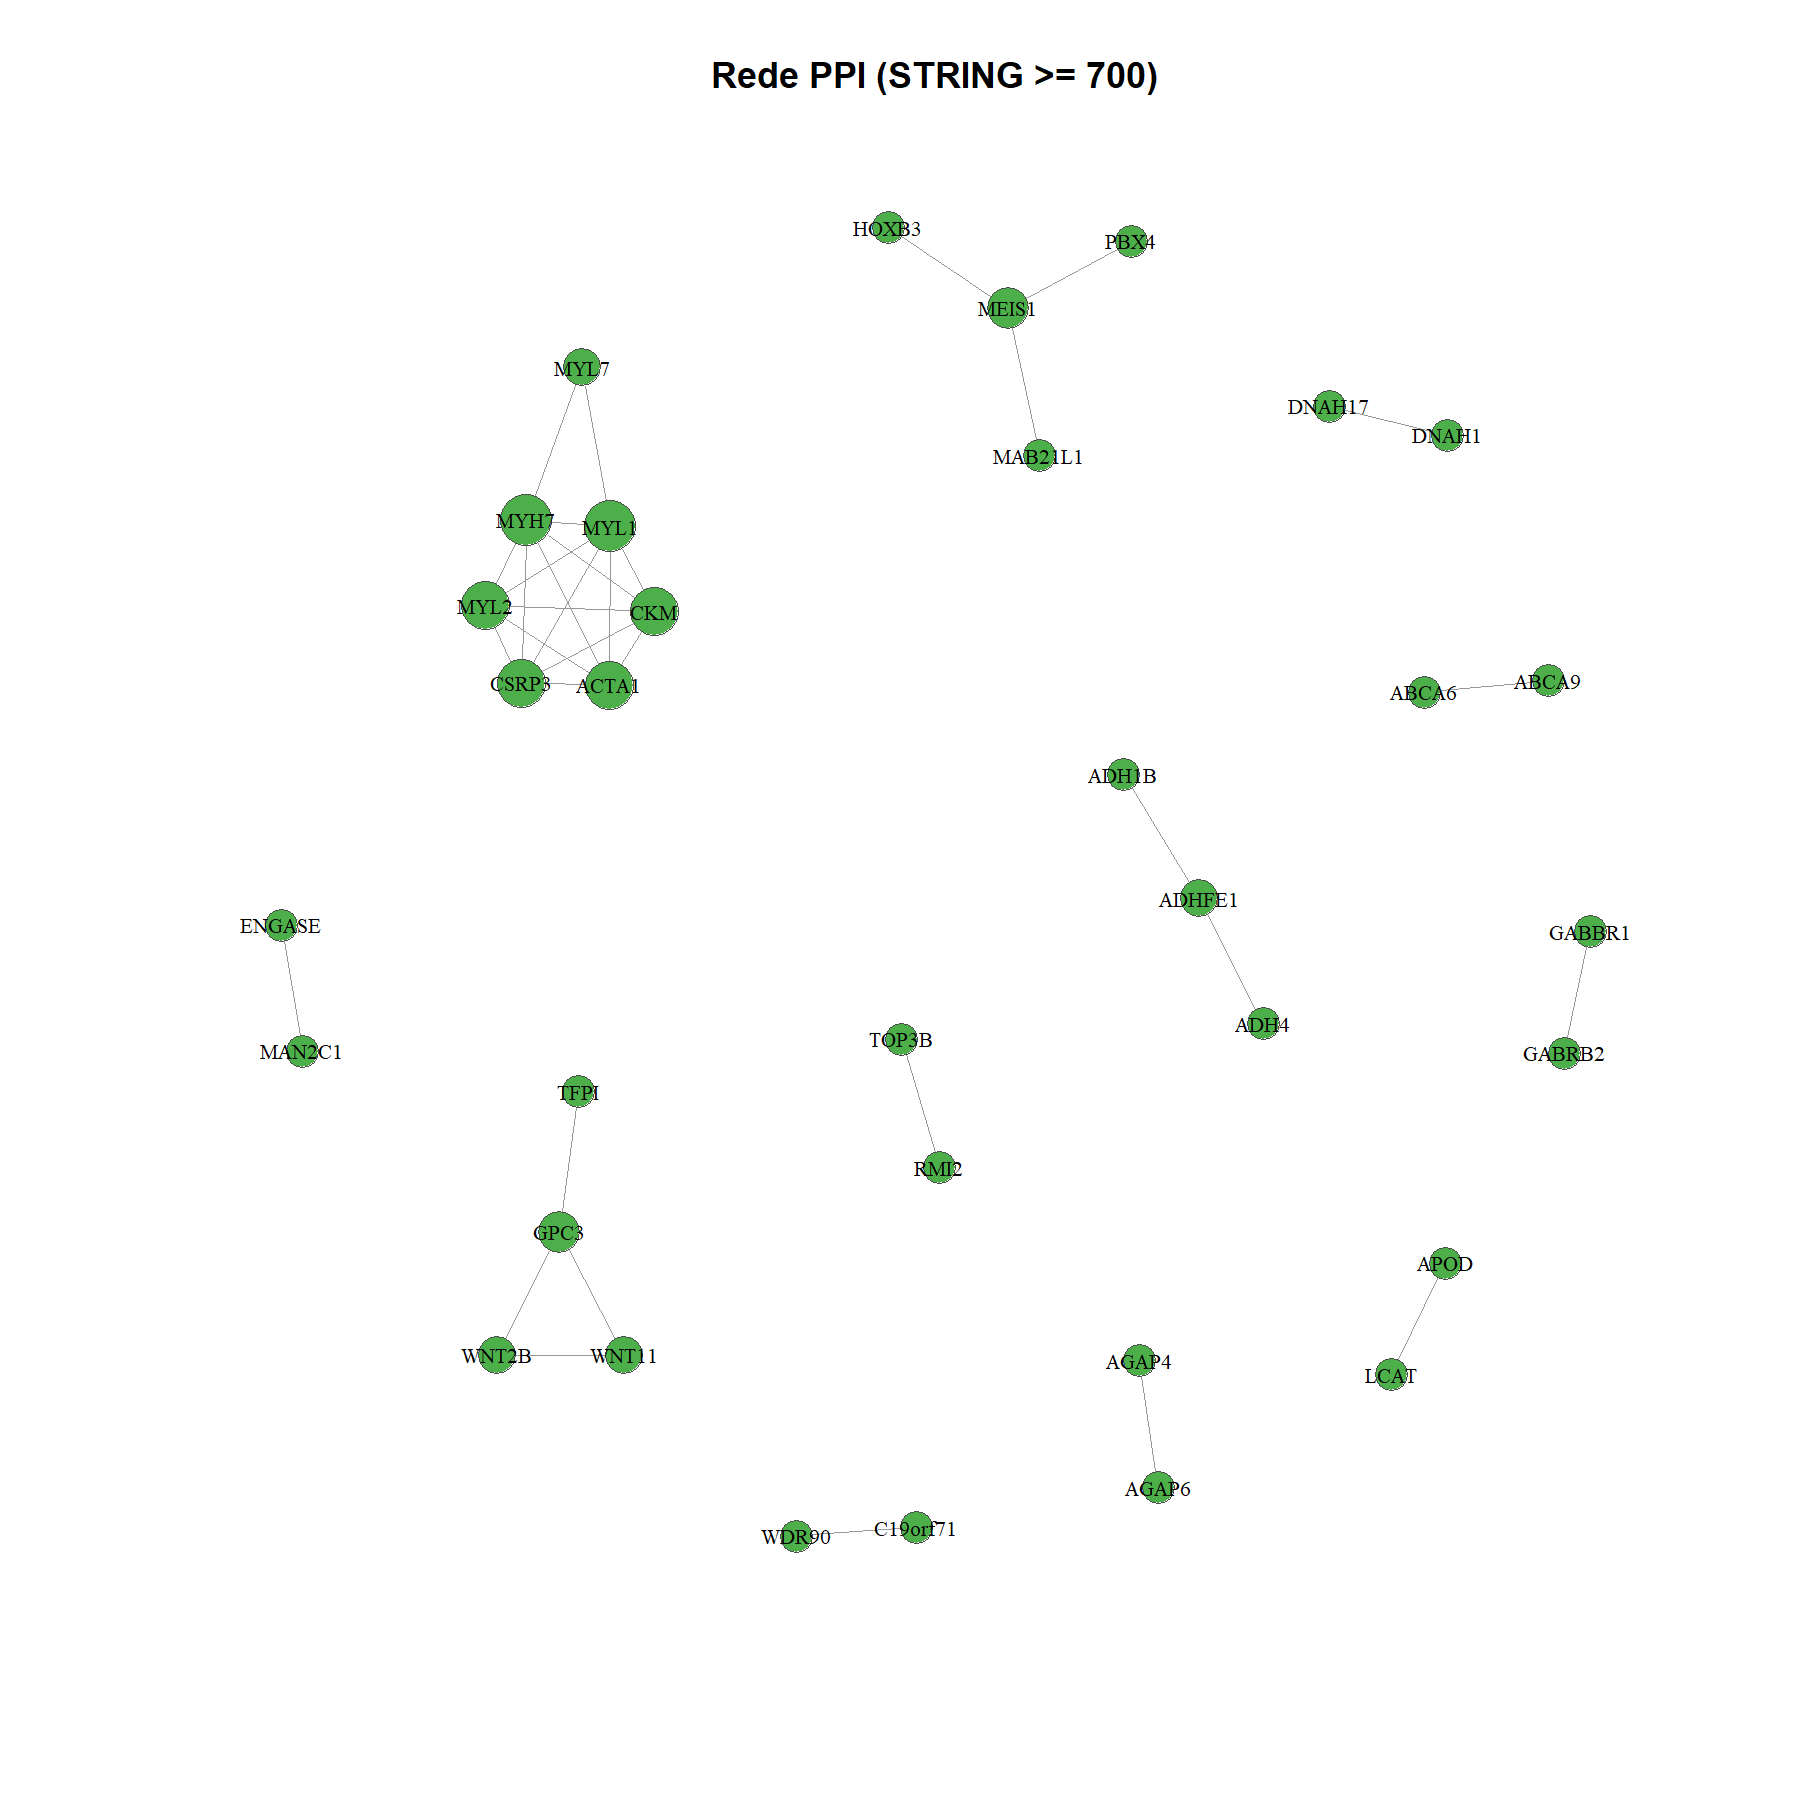
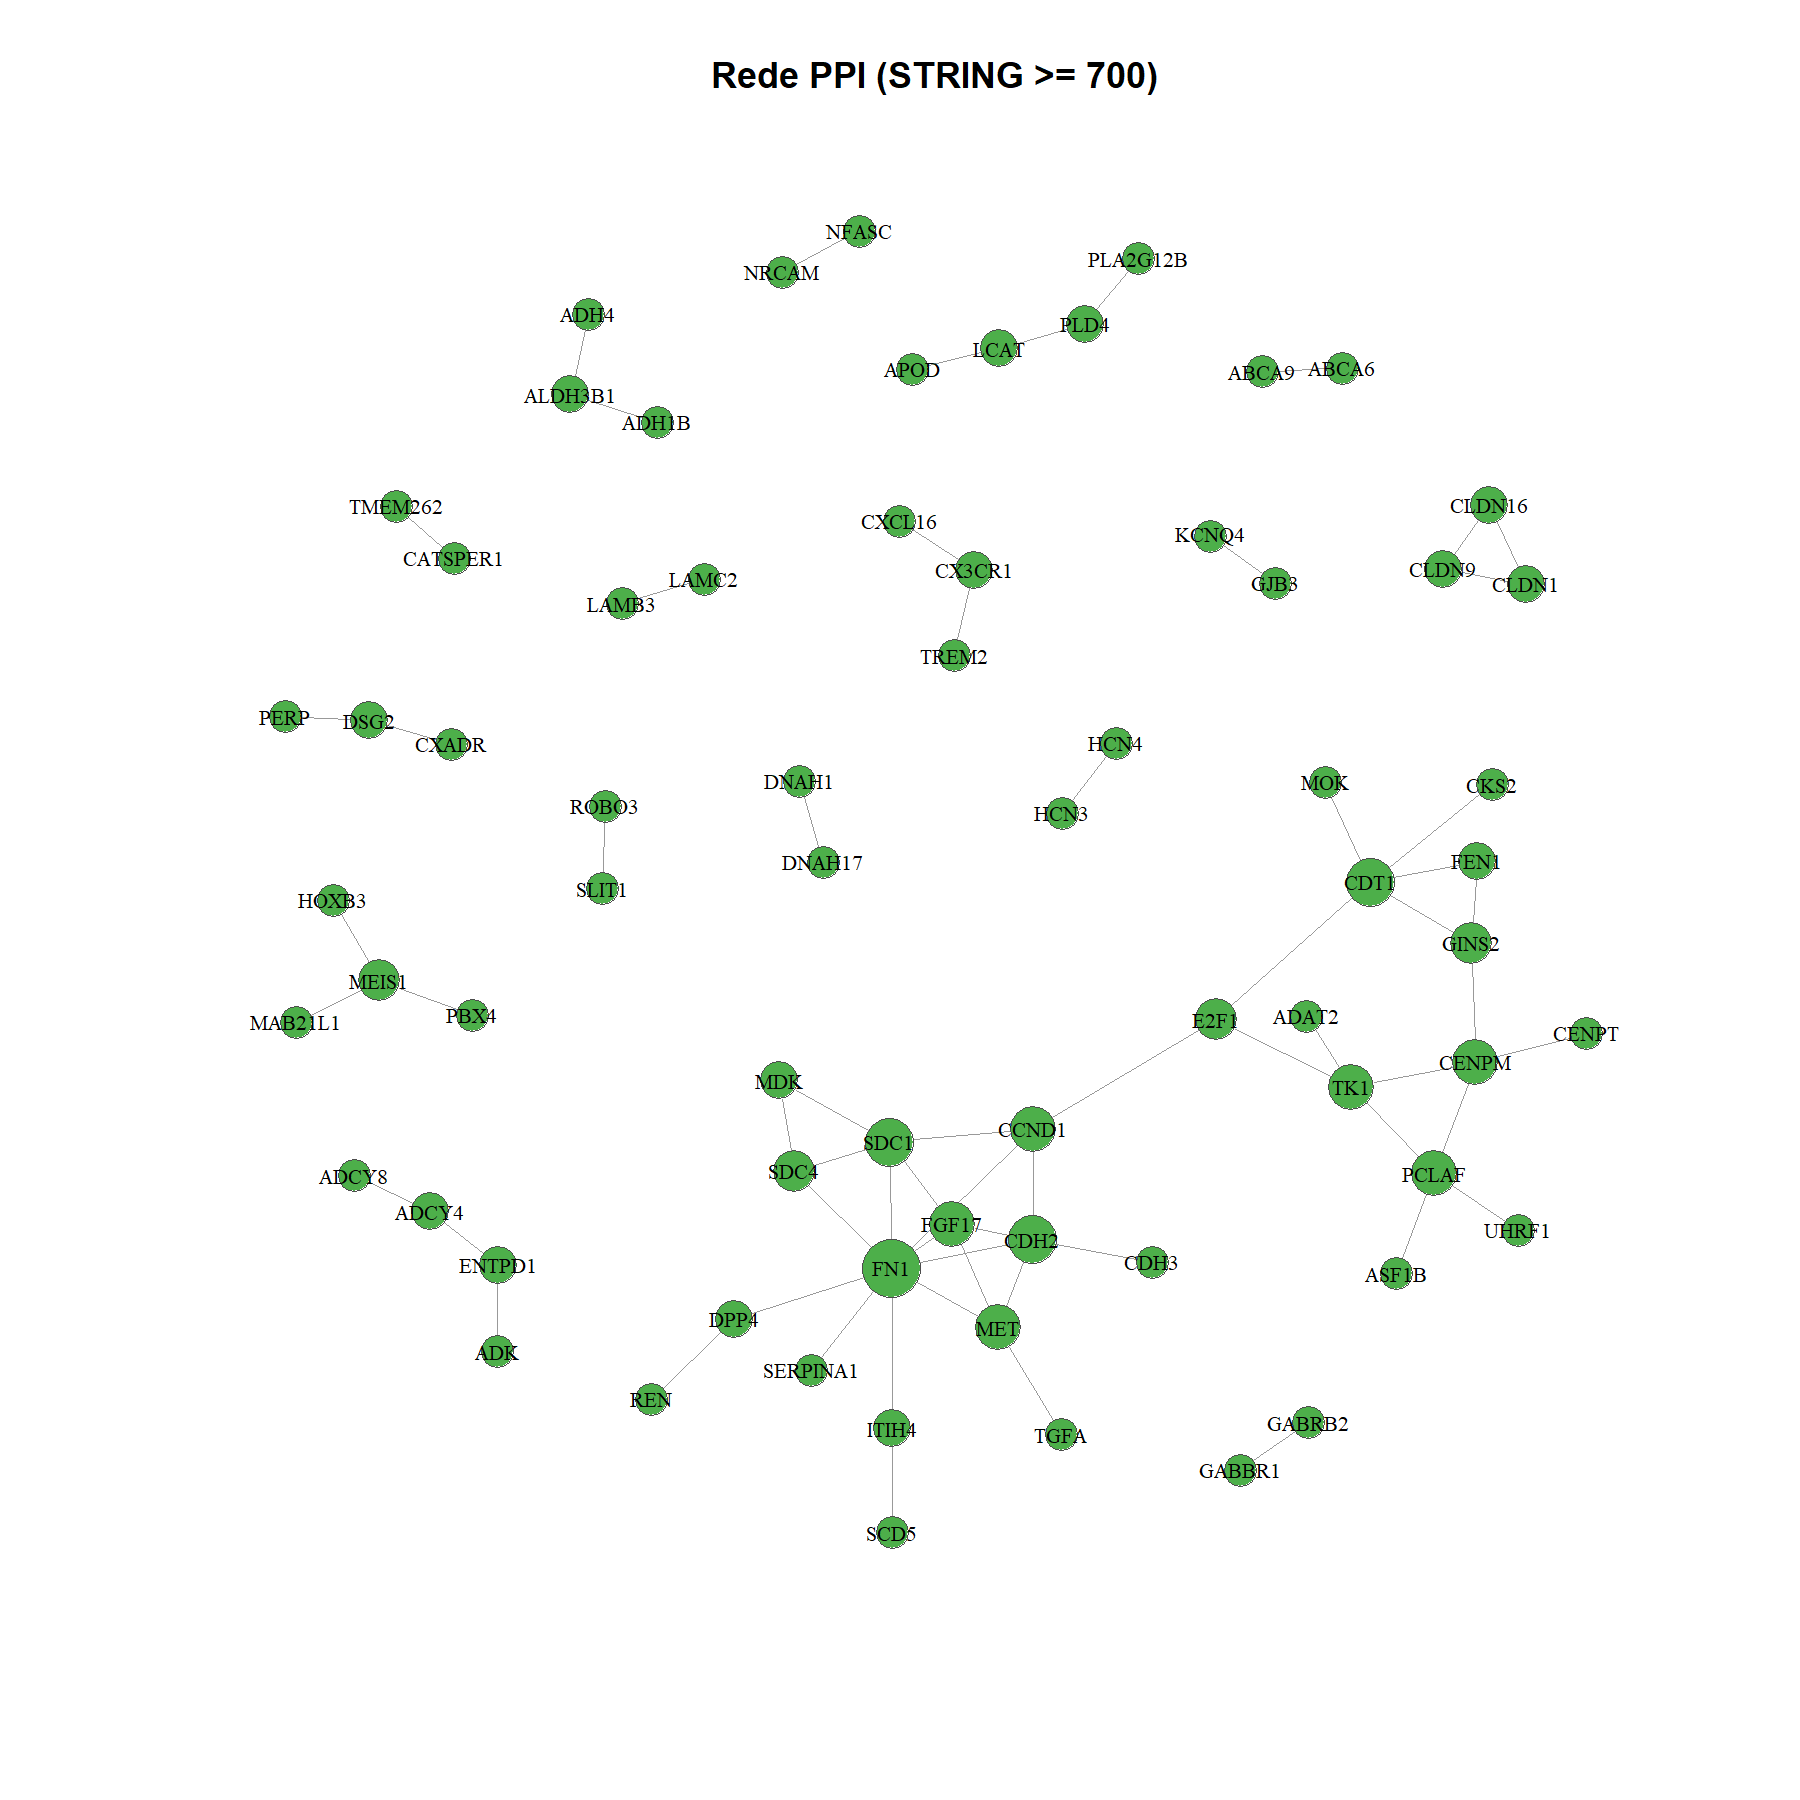
Correção de inconsistências: PPI e figuras alinhados à rede reconstruída
- PHASE2_METHODS.md: regra de elegibilidade do PPI corrigida (|logFC|>=1, exclui músculo, 250+250)
- PHASE2_LIMITATIONS.md: seção PPI corrigida (70 nós/65 arestas, FN1 hub; não 34 arestas)
- Regenera figuras (Fig8_PPI.png agora reflete a rede reconstruída)

diff --git a/results/phase2/reports/PHASE2_LIMITATIONS.md b/results/phase2/reports/PHASE2_LIMITATIONS.md
@@ -32,10 +32,12 @@ Para vias com genes quase todos Up (ex.: Interferon Signaling), o fgsea retornou
 NA em alguns métodos (estatísticas desbalanceadas). Reportado como "indeterminado", não
 forçado.
 
-## 6. PPI esparso
+## 6. PPI
 
-A rede STRING dos DEGs de maior |logFC| é esparsa (34 arestas) e dominada por composição
-muscular. Centralidade é topológica, não funcional, e não identifica alvo terapêutico.
+A rede STRING (escore≥700) foi reconstruída excluindo os marcadores de músculo estriado
+(70 nós / 65 arestas), com FN1 como hub principal e genes de ciclo celular/EMT. A rede
+permanece esparsa e **in silico** (interações inferidas pelo STRING); a centralidade é
+topológica, não funcional, e não identifica alvo terapêutico.
 
 ## 7. RPPA
 

diff --git a/results/phase2/reports/PHASE2_METHODS.md b/results/phase2/reports/PHASE2_METHODS.md
@@ -73,9 +73,10 @@ FULL vs REMOVED (`sensitivity/gsea_composition_sensitivity.tsv`).
 
 ## 9. PPI
 
-Genes elegíveis (pré-especificado): DEGs limma com FDR<0,05 e |logFC|≥2; top 400 por |t|.
-STRING (taxon 9606, escore≥700). Centralidade (degree, betweenness, closeness, eigenvector)
-e comunidades (walktrap). Variante de sensibilidade sem marcadores musculares.
+Genes elegíveis (tumor-relevante, pré-especificado): DEGs limma com FDR<0,05 e |logFC|≥1,
+excluindo os 48 marcadores de músculo estriado (artefato de composição do tecido normal),
+equilibrados em 250 Up + 250 Down por |t|. STRING (taxon 9606, escore≥700). Centralidade
+(degree, betweenness, closeness, eigenvector) e comunidades (walktrap).
 
 ## 10. Validação externa
 

diff --git a/README.md b/README.md
@@ -1,6 +1,4 @@
-# thyroid-volcano-ppi
-
-**Análise transcriptômica do carcinoma papilífero da tireoide com painel de 30 vias, convergência molecular e priorização de ITGA2 como candidato translacional**
+# Análise transcriptômica do carcinoma papilífero da tireoide com painel de 30 vias, convergência molecular e priorização de ITGA2 como candidato translacional
 
 > **Versão:** 4.1.0 (Fase 2 — reboot) | **Data da execução:** 2026-09-06 | **Tipo de estudo:** Exploratório, gerador de hipóteses
 
